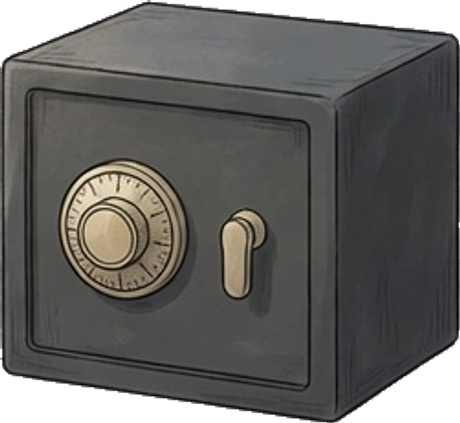
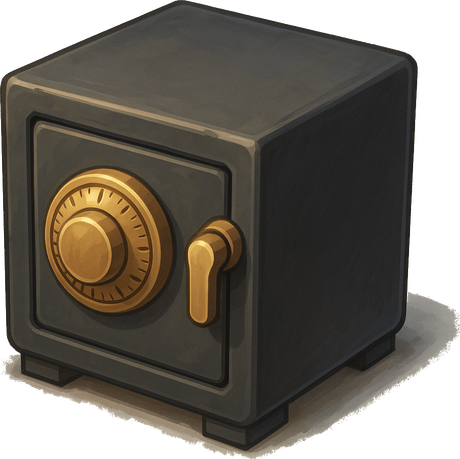
Base page: zoom, no desktop rails, no Campaign HQ title; safes re-angled, fence plain
Michael's batch. Desktop rails hide on /hq (game view, no sidebars); the
Campaign HQ header pill is gone. The yard zooms 0.55x-2.6x by mouse wheel
and two-finger pinch, anchored on the viewport center; the initial-centering
effect now runs only on fit changes - it used to re-run on every zoom and
snap the view back to center, undoing the anchor.

All five safes re-angled to the house's 3/4 iso camera using gpt-image-1
edits with Michael's cutouts as input - his designs, new geometry. The fence
is regenerated as a plain steel chain-link section: no sandbags, no signs.
All art verified by montage before wiring.

diff --git a/components/IsoYard.tsx b/components/IsoYard.tsx
@@ -54,7 +54,10 @@ export interface IsoCellSpec {
 export default function IsoYard({ cells, bg, children }:
   { cells: IsoCellSpec[]; bg?: string; children?: ReactNode }) {
   const wrapRef = useRef<HTMLDivElement>(null)
-  const [scale, setScale] = useState(1)
+  const [auto, setAuto] = useState(1)       // fit-derived base scale
+  const [zoom, setZoom] = useState(1)       // player zoom on top of it
+  const zoomRef = useRef(1)
+  const scale = auto * zoom
   useEffect(() => {
     const el = wrapRef.current
     if (!el) return
@@ -65,7 +68,7 @@ export default function IsoYard({ cells, bg, children }:
       // (capped at 2.2× the width-fit) and let the player PAN — the CoC feel.
       const fitW = r.width / STAGE_W
       const fitH = r.height / STAGE_H
-      setScale(Math.max(fitW, Math.min(fitH, fitW * 2.2)))
+      setAuto(Math.max(fitW, Math.min(fitH, fitW * 2.2)))
     }
     fit()
     const ro = new ResizeObserver(fit)
@@ -73,13 +76,69 @@ export default function IsoYard({ cells, bg, children }:
     return () => ro.disconnect()
   }, [])
 
-  // center the pan on first layout so the house greets you, not a corner
+  // ── zoom in/out (Michael 2026-07-31): mouse wheel on desktop, two-finger
+  // pinch on touch. Anchored on the viewport CENTER so the yard doesn't lurch;
+  // pan (scroll) covers whatever the zoom uncovers. ──
+  const applyZoom = (factor: number) => {
+    const el = wrapRef.current
+    if (!el) return
+    const next = Math.max(0.55, Math.min(2.6, zoomRef.current * factor))
+    if (next === zoomRef.current) return
+    const ratio = next / zoomRef.current
+    const cx = el.scrollLeft + el.clientWidth / 2
+    const cy = el.scrollTop + el.clientHeight / 2
+    zoomRef.current = next
+    setZoom(next)
+    requestAnimationFrame(() => {
+      el.scrollLeft = cx * ratio - el.clientWidth / 2
+      el.scrollTop = cy * ratio - el.clientHeight / 2
+    })
+  }
   useEffect(() => {
     const el = wrapRef.current
     if (!el) return
-    el.scrollLeft = Math.max(0, (STAGE_W * scale - el.clientWidth) / 2)
-    el.scrollTop = Math.max(0, (STAGE_H * scale - el.clientHeight) / 2)
-  }, [scale])
+    const onWheel = (e: WheelEvent) => {
+      e.preventDefault()
+      applyZoom(e.deltaY < 0 ? 1.12 : 1 / 1.12)
+    }
+    // pinch: track two pointers by hand — browser pinch is page zoom, not ours
+    const pts = new Map<number, { x: number; y: number }>()
+    let lastDist = 0
+    const down = (e: PointerEvent) => { if (e.pointerType === 'touch') { pts.set(e.pointerId, { x: e.clientX, y: e.clientY }); lastDist = 0 } }
+    const move = (e: PointerEvent) => {
+      if (e.pointerType !== 'touch' || !pts.has(e.pointerId)) return
+      pts.set(e.pointerId, { x: e.clientX, y: e.clientY })
+      if (pts.size === 2) {
+        const [a, b] = [...pts.values()]
+        const d = Math.hypot(a.x - b.x, a.y - b.y)
+        if (lastDist > 0) applyZoom(d / lastDist)
+        lastDist = d
+      }
+    }
+    const up = (e: PointerEvent) => { pts.delete(e.pointerId); lastDist = 0 }
+    el.addEventListener('wheel', onWheel, { passive: false })
+    el.addEventListener('pointerdown', down)
+    el.addEventListener('pointermove', move)
+    el.addEventListener('pointerup', up)
+    el.addEventListener('pointercancel', up)
+    return () => {
+      el.removeEventListener('wheel', onWheel)
+      el.removeEventListener('pointerdown', down)
+      el.removeEventListener('pointermove', move)
+      el.removeEventListener('pointerup', up)
+      el.removeEventListener('pointercancel', up)
+    }
+  }, [])
+
+  // center the pan when the FIT changes (first layout, rotation) — NOT on
+  // player zoom, which anchors itself and must not be snapped back to center
+  useEffect(() => {
+    const el = wrapRef.current
+    if (!el) return
+    const s = auto * zoomRef.current
+    el.scrollLeft = Math.max(0, (STAGE_W * s - el.clientWidth) / 2)
+    el.scrollTop = Math.max(0, (STAGE_H * s - el.clientHeight) / 2)
+  }, [auto])
 
   const sorted = [...cells].sort((a, b) => isoPos(a.pad).depth - isoPos(b.pad).depth)
 

diff --git a/app/(game)/hq/page.tsx b/app/(game)/hq/page.tsx
@@ -233,7 +233,6 @@ export default function HqPage() {
       {/* ── HUD: chrome at the edges, buttons clear of the bottom bar ── */}
       <div className="absolute top-3 left-3 z-[70] flex items-center gap-2">
         <button onClick={() => router.back()} className="w-9 h-9 rounded-xl bg-black/50 backdrop-blur flex items-center justify-center text-gray-200"><ArrowLeft size={17} /></button>
-        <span className="px-3 py-1.5 rounded-xl bg-black/50 backdrop-blur text-white font-black text-sm hidden min-[480px]:inline-flex">🏠 Campaign HQ</span>
         <button onClick={toggleMusic} className="w-9 h-9 rounded-xl bg-black/50 backdrop-blur flex items-center justify-center text-gray-200">
           {music ? <Music size={15} /> : <VolumeX size={15} />}
         </button>

diff --git a/app/(game)/layout.tsx b/app/(game)/layout.tsx
@@ -142,7 +142,9 @@ export default function GameLayout({ children }: { children: React.ReactNode }) 
       {/* the shell only spans its max-w — keep the WHOLE viewport dark
           behind it on desktop so the rails never sit on a light body */}
       <div className="hidden xl:block fixed inset-0 -z-10 bg-gray-950" />
-      {!immersive && <DesktopRails />}
+      {/* desktop rails hidden on /hq (Michael 2026-07-31: no arcade/profile/
+          menu sidebars on the base page — it's a game view) */}
+      {!immersive && !pathname.startsWith('/hq') && <DesktopRails />}
       {!immersive && (
       // on /boards the psub tab strip owns the very top — the game ☰ drops
       // below it (mobile). On xl the ☰ hides EVERYWHERE: the left rail

diff --git a/docs/AGENT_CHANNEL.md b/docs/AGENT_CHANNEL.md
@@ -3630,3 +3630,19 @@ LIKENESS FIXES awaiting picks on Desktop: CHAR-RichMan-C/D (fully divergent tech
 - 3 new tests (79 total) pin duration monotonicity (house > buildings per level), rush decay + floor, and clamping. tsc + build green.
 
 **For Michael:** upgrades take real time now — start one and watch the 🔨 countdown, or pay the ⚡ FINISH NOW price, which shrinks as the timer runs down.
+
+---
+
+### 2026-07-31 — Claude
+
+**Context:** Michael's desktop/art batch: no sidebars on the base page, drop the "Campaign HQ" branding, zoom on the yard, safes angled to match the house, fence redone plain.
+
+**To the channel:**
+- **Desktop rails hidden on `/hq`** — no arcade/profile/menu sidebars around the yard; it's a game view. Bottom bar stays (his earlier call).
+- **"Campaign HQ" title removed** — it only appeared as the base page's header pill; gone per "I don't like it". The page is just the yard + HUD now.
+- **Wheel + pinch ZOOM on the yard** (0.55×–2.6× over the auto-fit), anchored on the viewport center so it doesn't lurch, with pan covering what zoom uncovers. Fixed a subtle fight before it shipped: the initial-centering effect re-ran on every zoom and snapped the view back to center, undoing the anchor — it now runs only when the FIT changes (mount/rotation).
+- **All five safes re-angled to the house's camera** via gpt-image-1 EDITS with Michael's cutouts as input — the designs (dial/keypad/lever/handle) are still his, only the camera moved to front-left 3/4 with a visible top. This is a genuinely useful trick: **image edits preserve authorship while fixing geometry** — no redraw request, no style drift.
+- **Fence regenerated plain**: steel chain-link panel between two posts, nothing else — no sandbags, no caution sign, per Michael.
+- All verified by montage before wiring, per the standing rule. tsc + build + 79 green. Local commit.
+
+**For Michael:** yard zooms with wheel/pinch, sidebars gone on desktop, safes sit at the house's angle, fence is just a fence.
